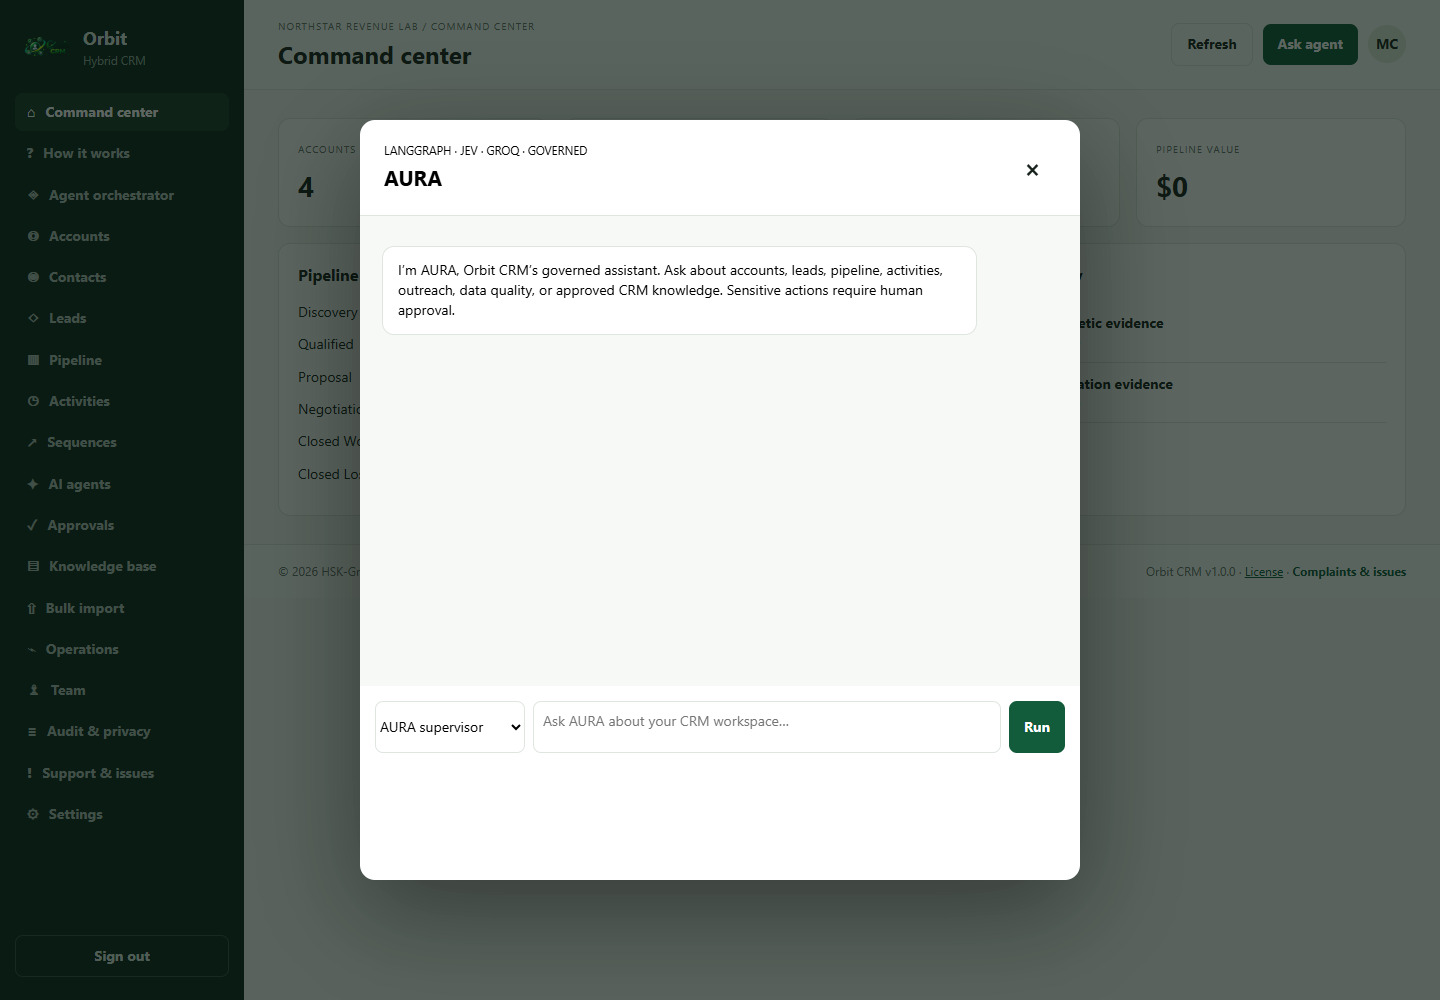
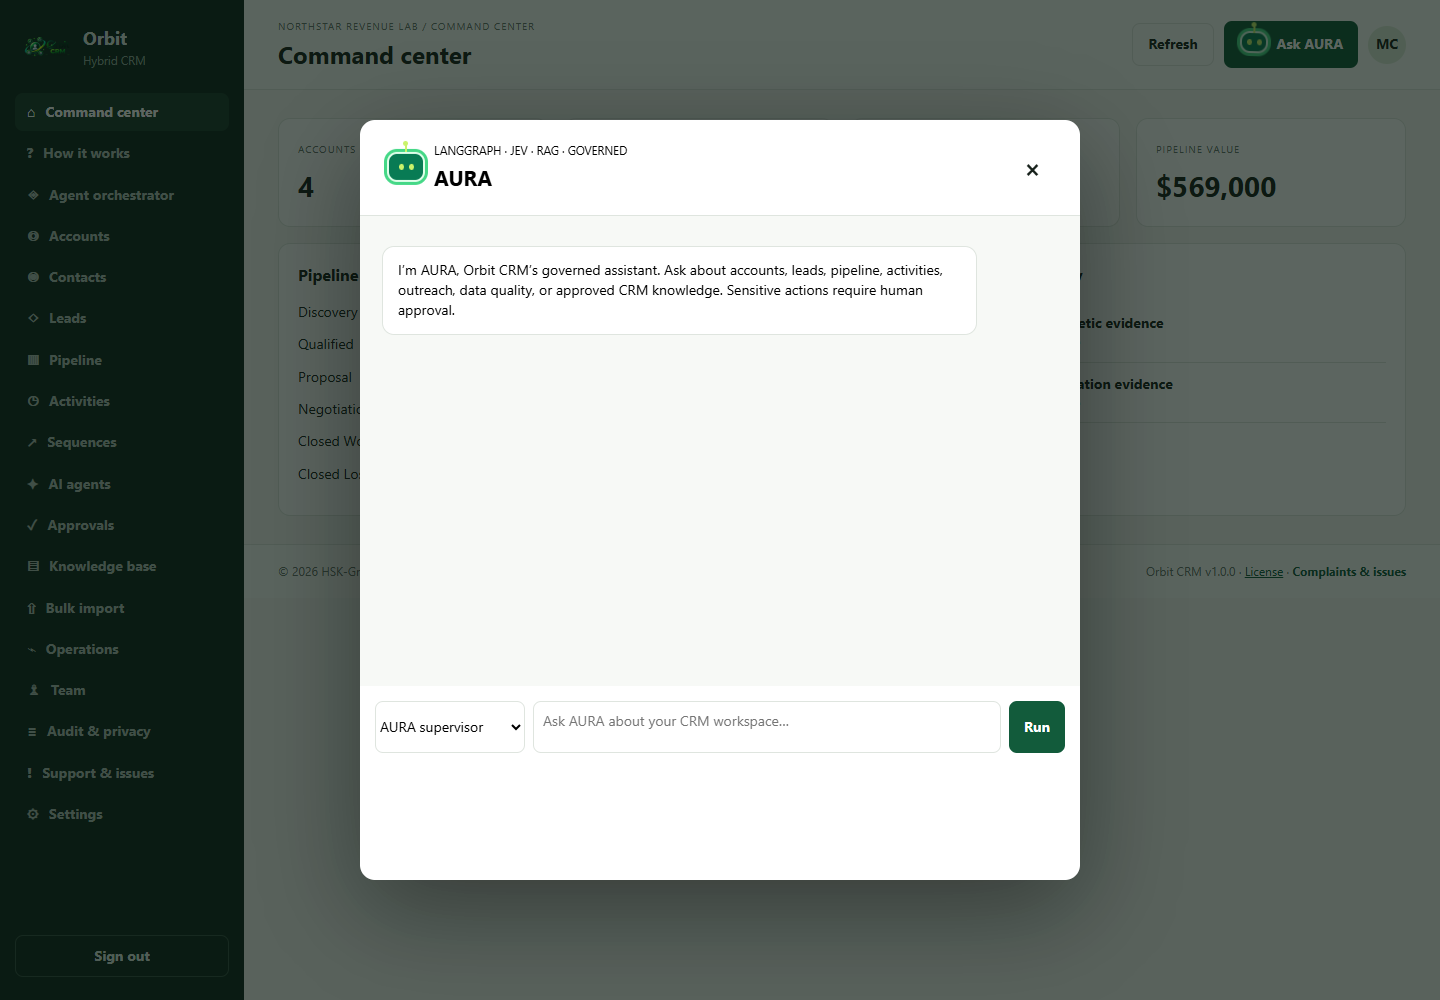
Populate pipeline and add AURA provider options

Changed region(s): [[0.7812, 0.0, 0.9375, 0.093], [0.25, 0.124, 0.4375, 0.186], [0.8125, 0.155, 0.875, 0.217]]

diff --git a/scripts/seed.ts b/scripts/seed.ts
@@ -1,5 +1,5 @@
 import postgres from "postgres";import { hashPassword } from "../src/security.js";const url=process.env.DATABASE_URL;if(!url)throw new Error("DATABASE_URL is required.");const sql=postgres(url,{max:1});
 await sql.begin(async tx=>{const [org]=await tx`insert into identity.organizations(name,slug) values('Northstar Revenue Lab','northstar-revenue-lab') on conflict(slug) do update set name=excluded.name returning id`;const users=[['maya.chen@example.test','Maya Chen','owner'],['jonas.becker@example.test','Jonas Becker','manager'],['amina.diallo@example.test','Amina Diallo','seller']];for(const[email,name,role]of users){const passwordHash=email==='maya.chen@example.test'?hashPassword(process.env.BOOTSTRAP_ADMIN_PASSWORD||'ChangeMe123!'):null;const[user]=await tx`insert into identity.users(email,display_name,password_hash) values(${email},${name},${passwordHash}) on conflict(email) do update set display_name=excluded.display_name,password_hash=coalesce(identity.users.password_hash,excluded.password_hash) returning id`;await tx`insert into identity.memberships values(${org.id},${user.id},${role}) on conflict do nothing`;}
   const[pipeline]=await tx`insert into crm.pipelines(organization_id,name,is_default) values(${org.id},'New Business',true) on conflict(organization_id,name) do update set is_default=true returning id`;const stageData=[['Discovery',1,15],['Qualified',2,35],['Proposal',3,65],['Negotiation',4,85],['Closed Won',5,100],['Closed Lost',6,0]];for(const[name,order,probability]of stageData)await tx`insert into crm.pipeline_stages(pipeline_id,name,stage_order,probability,is_closed,is_won) values(${pipeline.id},${name},${order},${probability},${Number(order)>=5},${Number(order)===5}) on conflict(pipeline_id,stage_order) do update set name=excluded.name,probability=excluded.probability`;
-  const companies:Array<[string,string,string,number]>=[['HelioGrid Systems','heliogrid.example','Energy software',420],['Kestrel Robotics','kestrelrobotics.example','Industrial automation',180],['LumenPay','lumenpay.example','Financial technology',760],['Harbor Health AI','harborhealth.example','Healthcare technology',310]];for(const[name,domain,industry,employees]of companies){const[a]=await tx`insert into crm.accounts(organization_id,name,normalized_name,domain,industry,employee_count,source) values(${org.id},${name},${name.toLowerCase()},${domain},${industry},${employees},'synthetic_seed') on conflict(organization_id,domain) where domain is not null do update set industry=excluded.industry returning id`;const first=name.split(' ')[0];const[c]=await tx`insert into crm.contacts(organization_id,account_id,first_name,last_name,email,title,linkedin_url,normalized_linkedin_url,source) values(${org.id},${a.id},${first},'Decision Maker',${`buyer@${domain}`},'VP Revenue',${`https://linkedin.com/in/${first.toLowerCase()}-buyer`},${`https://linkedin.com/in/${first.toLowerCase()}-buyer`},'synthetic_seed') on conflict(organization_id,email) where email is not null do update set title=excluded.title returning id`;await tx`insert into crm.leads(organization_id,contact_id,status,score,score_explanation,source) select ${org.id},${c.id},'working',72,${tx.json({synthetic:true,signals:['growth','new-market']})},'synthetic_seed' where not exists(select 1 from crm.leads where organization_id=${org.id} and contact_id=${c.id})`;}
+  const companies:Array<[string,string,string,number,number,number]>=[['HelioGrid Systems','heliogrid.example','Energy software',420,125000,2],['Kestrel Robotics','kestrelrobotics.example','Industrial automation',180,86000,1],['LumenPay','lumenpay.example','Financial technology',760,210000,3],['Harbor Health AI','harborhealth.example','Healthcare technology',310,148000,4]];for(const[name,domain,industry,employees,amount,stageOrder]of companies){const[a]=await tx`insert into crm.accounts(organization_id,name,normalized_name,domain,industry,employee_count,source) values(${org.id},${name},${name.toLowerCase()},${domain},${industry},${employees},'synthetic_seed') on conflict(organization_id,domain) where domain is not null do update set industry=excluded.industry returning id`;const first=name.split(' ')[0];const[c]=await tx`insert into crm.contacts(organization_id,account_id,first_name,last_name,email,title,linkedin_url,normalized_linkedin_url,source) values(${org.id},${a.id},${first},'Decision Maker',${`buyer@${domain}`},'VP Revenue',${`https://linkedin.com/in/${first.toLowerCase()}-buyer`},${`https://linkedin.com/in/${first.toLowerCase()}-buyer`},'synthetic_seed') on conflict(organization_id,email) where email is not null do update set title=excluded.title returning id`;await tx`insert into crm.leads(organization_id,contact_id,status,score,score_explanation,source) select ${org.id},${c.id},'working',72,${tx.json({synthetic:true,signals:['growth','new-market']})},'synthetic_seed' where not exists(select 1 from crm.leads where organization_id=${org.id} and contact_id=${c.id})`;await tx`insert into crm.opportunities(organization_id,account_id,primary_contact_id,pipeline_id,stage_id,name,amount,expected_close_date) select ${org.id},${a.id},${c.id},${pipeline.id},ps.id,${`${name} Expansion`},${amount},current_date+(${stageOrder*18}||' days')::interval from crm.pipeline_stages ps where ps.pipeline_id=${pipeline.id} and ps.stage_order=${stageOrder} and not exists(select 1 from crm.opportunities where organization_id=${org.id} and account_id=${a.id} and name=${`${name} Expansion`})`;}
   await tx`insert into automation.rule_definitions(organization_id,key,name,version,trigger_type,conditions,actions) values(${org.id},'high-intent-route','Route high-intent leads',1,'lead.scored',${tx.json({all:[{field:'lead.score',operator:'gte',value:70}]} )},${tx.json([{type:'assign_owner',strategy:'round_robin'},{type:'create_task',dueHours:24}])}) on conflict do nothing`;});console.log("Synthetic CRM seed applied.");await sql.end();

diff --git a/public/index.html b/public/index.html
@@ -1,5 +1,5 @@
-<!doctype html><html lang="en"><head><meta charset="UTF-8"><meta name="viewport" content="width=device-width,initial-scale=1"><title>Orbit CRM</title><link rel="stylesheet" href="/styles.css"><link rel="stylesheet" href="/auth.css"><link rel="stylesheet" href="/brand.css"></head>
+<!doctype html><html lang="en"><head><meta charset="UTF-8"><meta name="viewport" content="width=device-width,initial-scale=1"><title>Orbit CRM</title><link rel="stylesheet" href="/styles.css"><link rel="stylesheet" href="/auth.css"><link rel="stylesheet" href="/brand.css"><link rel="stylesheet" href="/ai-pets.css"></head>
 <body><div id="auth" class="auth"><div class="auth-card"><img class="auth-logo" src="/brand/orbit-crm-logo.png" alt="Orbit CRM"><h1>Orbit CRM</h1><p id="authSubtitle">Agentic intelligence. Deterministic control.</p><form id="loginForm"><div id="signupFields" class="hidden"><label>Workspace name<input name="organizationName" autocomplete="organization"></label><label>Your name<input name="displayName" autocomplete="name"></label></div><label>Email<input name="email" type="email" autocomplete="email" required></label><label>Password<div class="password-field"><input name="password" type="password" autocomplete="current-password" minlength="10" required><button type="button" class="show-password" aria-label="Show password">Show</button></div></label><button id="authSubmit">Sign in</button><small id="authError"></small></form><button id="authMode" class="auth-switch" type="button">New here? Create an account</button></div></div>
-<div id="shell" class="shell hidden"><aside><div class="brand"><img src="/brand/orbit-crm-logo.png" alt=""><div><strong>Orbit</strong><small>Hybrid CRM</small></div></div><nav id="nav"></nav><div class="aside-foot"><button id="logout" class="quiet">Sign out</button></div></aside><main><header><div><small id="crumb">Workspace</small><h1 id="title">Command center</h1></div><div class="header-actions"><button id="refresh" class="quiet">Refresh</button><button id="askAgent">Ask agent</button><div class="avatar" id="avatar">AI</div></div></header><section id="content"></section><footer class="app-footer"><span>© 2026 HSK-Group · Product of HSK-Group</span><span>Orbit CRM v1.0.0 · <a href="/license.txt" target="_blank">License</a> · <button data-footer-page="support">Complaints & issues</button></span></footer></main></div>
-<dialog id="agentDialog"><form method="dialog" class="dialog-head"><div><small>LANGGRAPH · JEV · GROQ · GOVERNED</small><h2>AURA</h2></div><button aria-label="Close">×</button></form><div id="chat" class="chat"><div class="assistant-msg">I’m AURA, Orbit CRM’s governed assistant. Ask about accounts, leads, pipeline, activities, outreach, data quality, or approved CRM knowledge. Sensitive actions require human approval.</div></div><form id="agentForm" class="composer"><select name="agentType"><option value="auto">AURA supervisor</option><option value="assistant">AURA CRM assistant</option><option value="qualification">Lead qualification</option><option value="research">Account research</option><option value="pipeline">Pipeline risk</option><option value="email">Email drafting</option><option value="data_quality">Data quality</option><option value="mcp">MCP tool agent</option></select><textarea name="objective" maxlength="2000" placeholder="Ask AURA about your CRM workspace…" required></textarea><button>Run</button></form></dialog>
+<div id="shell" class="shell hidden"><aside><div class="brand"><img src="/brand/orbit-crm-logo.png" alt=""><div><strong>Orbit</strong><small>Hybrid CRM</small></div></div><nav id="nav"></nav><div class="aside-foot"><button id="logout" class="quiet">Sign out</button></div></aside><main><header><div><small id="crumb">Workspace</small><h1 id="title">Command center</h1></div><div class="header-actions"><button id="refresh" class="quiet">Refresh</button><button id="askAgent" class="aura-launch"><span class="aura-pet" aria-hidden="true"><i></i><b><em></em><em></em></b></span>Ask AURA</button><div class="avatar" id="avatar">AI</div></div></header><section id="content"></section><footer class="app-footer"><span>© 2026 HSK-Group · Product of HSK-Group</span><span>Orbit CRM v1.0.0 · <a href="/license.txt" target="_blank">License</a> · <button data-footer-page="support">Complaints & issues</button></span></footer></main></div>
+<dialog id="agentDialog"><form method="dialog" class="dialog-head"><span class="aura-pet large" aria-hidden="true"><i></i><b><em></em><em></em></b></span><div><small>LANGGRAPH · JEV · RAG · GOVERNED</small><h2>AURA</h2></div><button aria-label="Close">×</button></form><div id="chat" class="chat"><div class="assistant-msg">I’m AURA, Orbit CRM’s governed assistant. Ask about accounts, leads, pipeline, activities, outreach, data quality, or approved CRM knowledge. Sensitive actions require human approval.</div></div><form id="agentForm" class="composer"><select name="agentType"><option value="auto">AURA supervisor</option><option value="assistant">AURA CRM assistant</option><option value="qualification">Lead qualification</option><option value="research">Account research</option><option value="pipeline">Pipeline risk</option><option value="email">Email drafting</option><option value="data_quality">Data quality</option><option value="mcp">MCP tool agent</option></select><textarea name="objective" maxlength="2000" placeholder="Ask AURA about your CRM workspace…" required></textarea><button>Run</button></form></dialog>
 <script type="module" src="/app.js"></script></body></html>

diff --git a/src/agents.ts b/src/agents.ts
@@ -5,6 +5,7 @@ import { parseAgentResponse, readProviderError } from "./agent-response.js";
 import { AURA_SYSTEM_PROMPT } from "./prompts.js";
 import { guardCrmObjective,safeAgentContext } from "./guardrails.js";
 import {agentLatency,agentRuns} from "./metrics.js";
+import {llmConfiguration} from "./llm.js";
 
 type AgentInput={organizationId:string;userId?:string;agentType:string;objective:string;context?:Record<string,unknown>};
 const agentGuidance:Record<string,string>={assistant:"Answer CRM questions with grounded evidence and concise next steps.",qualification:"Assess fit, intent, timing and data quality. Propose a lead score; never execute it.",research:"Build an account brief from supplied CRM and knowledge evidence.",pipeline:"Identify deal risk and propose next-best actions.",email:"Draft a factual, low-pressure email grounded in context.",data_quality:"Find duplicates and incomplete records; recommend safe corrections.",mcp:"Select registered tools but never bypass approval policies."};
@@ -17,16 +18,16 @@ async function crmContext(org:string,objective:string){
 
 export async function runAgent(input:AgentInput){
   input={...input,objective:guardCrmObjective(input.objective),context:safeAgentContext(input.context||{}) as Record<string,unknown>};
-  const model=config.GROQ_MODEL;
+  const llm=llmConfiguration(),model=llm.model;
   const [run]=await sql`insert into agent.runs(organization_id,agent_type,model,objective,status) values(${input.organizationId},${input.agentType},${model},${input.objective},'running') returning id,started_at`;
   const started=Date.now();
   try{
     const knowledge=await retrieveKnowledge(input.organizationId,input.objective);
     const crm=await crmContext(input.organizationId,input.objective);
     await sql`insert into agent.run_steps(run_id,step_order,kind,input,output) values(${run.id},1,'retrieve',${sql.json({query:input.objective})},${sql.json({knowledge,crm})})`;
-    if(!config.GROQ_API_KEY)throw new Error("GROQ_API_KEY is not configured");
-    const response=await fetch(`${config.GROQ_BASE_URL}/chat/completions`,{
-      method:"POST",headers:{authorization:`Bearer ${config.GROQ_API_KEY}`,"content-type":"application/json"},
+    if(!llm.apiKey)throw new Error(`${llm.provider} LLM API key is not configured`);
+    const response=await fetch(`${llm.baseURL}/chat/completions`,{
+      method:"POST",headers:{authorization:`Bearer ${llm.apiKey}`,"content-type":"application/json"},
       body:JSON.stringify({model,messages:[{role:"system",content:`${AURA_SYSTEM_PROMPT}\nSpecialist policy: ${agentGuidance[input.agentType]||agentGuidance.assistant}\nReturn JSON with keys answer, recommendations (array of {actionType,targetType,targetId,payload,confidence,rationale}), and citations (array of chunk ids).`},{role:"user",content:JSON.stringify({objective:input.objective,context:input.context||{},crm,knowledge})}],response_format:{type:"json_object"},temperature:0.2}),
       signal:AbortSignal.timeout(45_000)
     });
@@ -38,7 +39,7 @@ export async function runAgent(input:AgentInput){
       await tx`insert into agent.run_steps(run_id,step_order,kind,input,output,duration_ms) values(${run.id},2,'model',${tx.json({model})},${tx.json(parsed as never)},${Date.now()-started})`;
       for(const item of parsed.recommendations.slice(0,config.AGENT_MAX_ACTIONS_PER_RUN))await tx`insert into agent.recommendations(run_id,organization_id,action_type,target_type,target_id,payload,confidence,rationale,requires_human) values(${run.id},${input.organizationId},${item.actionType},${item.targetType},${item.targetId||null},${tx.json(item.payload as never)},${item.confidence},${item.rationale},${config.AGENT_ACTIONS_REQUIRE_APPROVAL==='true'})`;
       await tx`update agent.runs set status='completed',input_tokens=${usage.prompt_tokens||0},output_tokens=${usage.completion_tokens||0},completed_at=now() where id=${run.id}`;
-      await tx`insert into agent.usage_events(organization_id,run_id,provider,model,input_tokens,output_tokens,latency_ms) values(${input.organizationId},${run.id},'groq',${model},${usage.prompt_tokens||0},${usage.completion_tokens||0},${Date.now()-started})`;
+      await tx`insert into agent.usage_events(organization_id,run_id,provider,model,input_tokens,output_tokens,latency_ms) values(${input.organizationId},${run.id},${llm.provider},${model},${usage.prompt_tokens||0},${usage.completion_tokens||0},${Date.now()-started})`;
     });
     agentRuns.inc({agent:input.agentType,status:"completed"});agentLatency.observe({agent:input.agentType},(Date.now()-started)/1000);
     return{runId:run.id,...parsed,grounding:knowledge};

diff --git a/public/ai-pets.css b/public/ai-pets.css
@@ -1,0 +1,1 @@
+.aura-launch{display:flex;align-items:center;gap:8px}.dialog-head{align-items:center;justify-content:flex-start}.dialog-head>button{margin-left:auto}.aura-pet{width:30px;height:27px;display:inline-grid;place-items:center;position:relative;animation:aura-float 2.8s ease-in-out infinite}.aura-pet.large{width:44px;height:40px;margin-right:6px}.aura-pet b{width:28px;height:22px;border:2px solid #dfffea;border-radius:10px;background:#087b54;display:flex;align-items:center;justify-content:center;gap:5px;box-shadow:0 0 0 3px #45d887}.aura-pet.large b{width:38px;height:30px}.aura-pet em{width:5px;height:6px;border-radius:50%;background:#c9f36b;animation:aura-blink 4s infinite}.aura-pet i{position:absolute;width:2px;height:7px;background:#c9f36b;top:-2px}.aura-pet i:after{content:"";position:absolute;width:5px;height:5px;border-radius:50%;background:#c9f36b;top:-4px;left:-2px}.aura-pet.thinking b{animation:aura-think .7s ease-in-out infinite alternate}@keyframes aura-float{50%{transform:translateY(-3px) rotate(2deg)}}@keyframes aura-blink{0%,45%,50%,100%{transform:scaleY(1)}47%{transform:scaleY(.1)}}@keyframes aura-think{to{box-shadow:0 0 0 6px #c9f36b88}}@media(prefers-reduced-motion:reduce){.aura-pet,.aura-pet b,.aura-pet em{animation:none}}

diff --git a/src/config.ts b/src/config.ts
@@ -3,6 +3,7 @@ import { z } from "zod";
 export const config=z.object({
   DATABASE_URL:z.string().min(1), HOST:z.string().default("127.0.0.1"), PORT:z.coerce.number().default(4100), API_KEY:z.string().min(24), ASP_SHARED_SECRET:z.string().min(24),
   GROQ_API_KEY:z.string().optional(), GROQ_MODEL:z.string().default("openai/gpt-oss-120b"), GROQ_BASE_URL:z.string().url().default("https://api.groq.com/openai/v1"),
+  LLM_PROVIDER:z.enum(["groq","local"]).default("groq"), LLM_BASE_URL:z.string().url().optional(), LLM_API_KEY:z.string().optional(), LLM_MODEL:z.string().optional(),
   TAVILY_API_KEY:z.string().optional(), TAVILY_API_URL:z.string().url().default("https://api.tavily.com/search"),
   EMAIL_API_KEY:z.string().optional(), EMAIL_API_URL:z.string().url().default("https://api.resend.com/emails"), EMAIL_FROM:z.string().email().optional(),
   APP_URL:z.string().url().default("http://localhost:4100"), SESSION_TTL_HOURS:z.coerce.number().int().positive().default(24),

diff --git a/src/llm.ts b/src/llm.ts
@@ -1,0 +1,2 @@
+import {config} from "./config.js";
+export function llmConfiguration(){if(config.LLM_PROVIDER==="groq")return{provider:"groq",baseURL:config.GROQ_BASE_URL,apiKey:config.GROQ_API_KEY,model:config.LLM_MODEL||config.GROQ_MODEL};const baseURL=config.LLM_BASE_URL||"http://localhost:11434/v1",host=new URL(baseURL).hostname;if(!new Set(["localhost","127.0.0.1","::1"]).has(host))throw new Error("Local LLM endpoints must use a loopback hostname.");return{provider:"local",baseURL,apiKey:config.LLM_API_KEY||"local-only",model:config.LLM_MODEL||"llama3.2"};}

diff --git a/docs/configuration.md b/docs/configuration.md
@@ -10,6 +10,8 @@
 | `SESSION_TTL_HOURS` | yes | Server-session lifetime |
 | `BOOTSTRAP_ADMIN_PASSWORD` | bootstrap only | Initial provisioning; remove after setup |
 | `GROQ_API_KEY`, `GROQ_MODEL`, `GROQ_BASE_URL` | for AI | Model provider configuration |
+| `LLM_PROVIDER` | yes | `groq` for hosted inference or `local` for a loopback OpenAI-compatible runtime |
+| `LLM_BASE_URL`, `LLM_API_KEY`, `LLM_MODEL` | local inference | Local endpoint and model; remote custom endpoints are rejected |
 | `TAVILY_API_KEY`, `TAVILY_API_URL` | for web research | Search provider configuration |
 | `AGENT_ACTIONS_REQUIRE_APPROVAL` | yes | Keep `true` in production unless an action has a separately approved policy |
 | `AGENT_MAX_ACTIONS_PER_RUN` | yes | Hard bound on an agent run |
@@ -17,4 +19,6 @@
 | `SNOWFLAKE_*` | optional | Analytics destination; omit until enabled |
 
 Generate secrets with a cryptographic random generator (at least 32 bytes). Do not use `${VARIABLE}` interpolation inside Node env files; inject the final value. URL-encode reserved password characters in connection URIs. Validate startup with `/health` and never print the effective configuration.
+
+Select a fine-tuned hosted model with `GROQ_MODEL`. For Ollama or another local OpenAI-compatible runtime, use `LLM_PROVIDER=local`, a loopback URL such as `http://localhost:11434/v1`, and the installed `LLM_MODEL`. This loopback restriction prevents tenant CRM data from being redirected to an unapproved remote endpoint.
 

diff --git a/README.md b/README.md
@@ -64,6 +64,8 @@ Orbit is an independent, multi-workspace CRM connected to Autonomous Sales Prosp
 
 AURA uses LangGraph for deterministic state and checkpoints, optional JEV TypeSafe decisions for bounded routing, specialist handoffs for CRM work, and an evaluator before returning a result. JEV is a decision model—not the conversational generator—and never replaces tenant authorization or approval policy. Langfuse/OpenTelemetry traces and Prometheus/Grafana metrics are optional operator integrations. See the [AI PRD](docs/PRD.md).
 
+The AURA and SIERRA launchers use lightweight CSS animation with a reduced-motion fallback; no external animation service or tracking script is loaded.
+
 ![AURA governed CRM assistant](docs/screenshots/orbit-aura.png)
 
 ## Product workflow and agent orchestration
@@ -95,6 +97,8 @@ npm run dev
 Run `npm run worker` separately and open `http://localhost:4100`.
 
 Synthetic login: `maya.chen@example.test`; password is `BOOTSTRAP_ADMIN_PASSWORD`, or `ChangeMe123!` when omitted for local development. Change it before exposing the service. Never commit `.env`.
+
+The seed command creates realistic accounts, contacts, leads and opportunities across multiple stages, so Pipeline Health and the dashboard are populated immediately after local setup. It is idempotent and safe to rerun.
 
 ## Important endpoints
 
